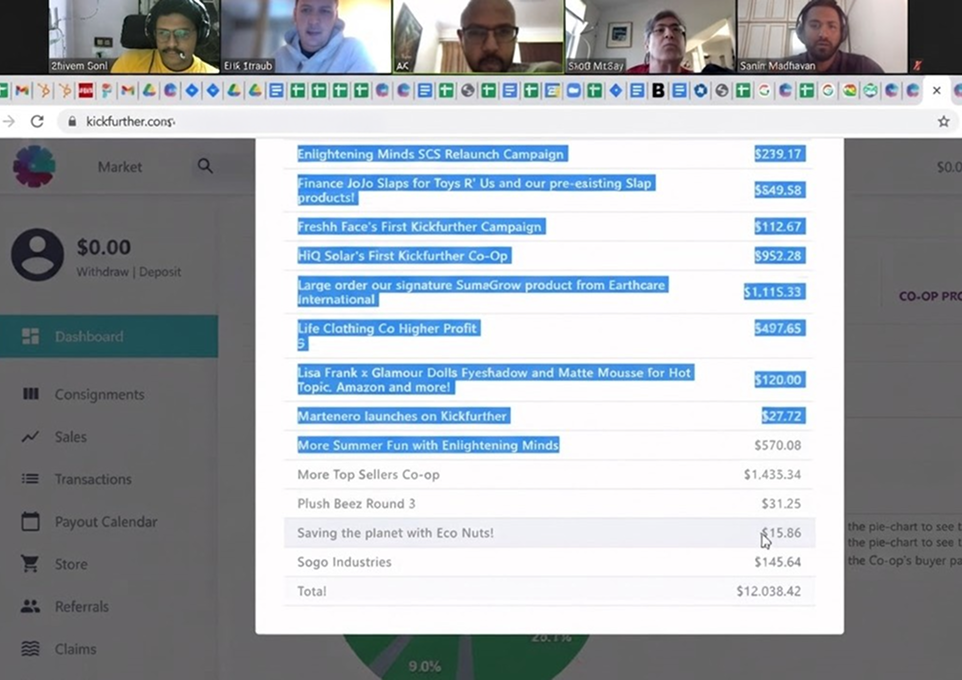
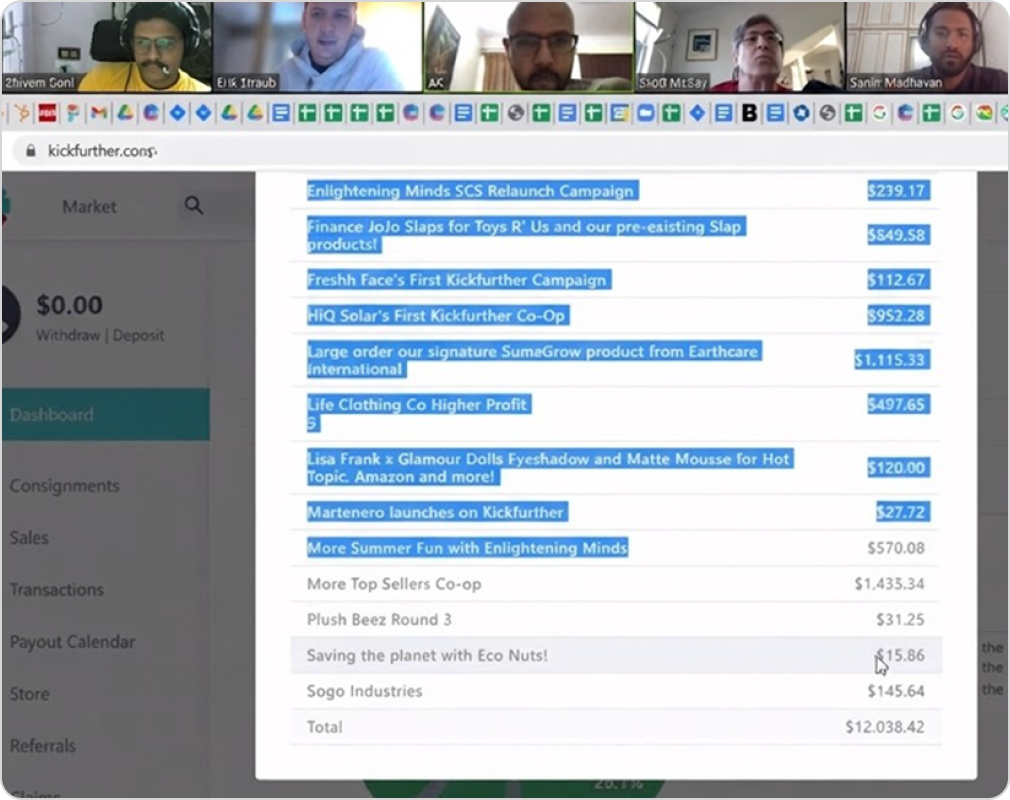
Kickfurther: revised Figma layout — fractional grid, framed images, investor gallery
- Layout: Main is now a 3-column grid (0.25fr / 1fr / 0.25fr), 32px gaps,
  capped at 1722px; content column is fluid (~1025px) with an empty right
  gutter. Sidebar column is fluid.
- Images: all content images now have a 1px Grey/300 border + 11px radius
  (reinstating the framed look, per the revised design).
- Delivery: add the new investor gallery (combined screens) below the
  investor view; business view is now text-only (image removed); hero swapped
  to the updated Buyer Marketplace mockup.
- Iterations: "happy path" is now a two-up (lifecycle + flagged/no-confidence).
- Type: eyebrow -> Grey/500 (Mono 16); sidebar labels -> 16px.

Images renamed to convention; unused business.png removed.

Claude-Session: https://claude.ai/code/session_016mGArwkk2tk7sdjNBRDyw8

diff --git a/kickfurther.html b/kickfurther.html
@@ -174,9 +174,14 @@
 
         <h3 class="kf-subhead">Start with the happy path</h3>
         <p class="body">You can&rsquo;t fix a process until you can see all of it in one place, and back then, no one could. So the first thing I did was draw it. I began with the deal&rsquo;s normal life: how a funding deal moves from start to finish when everything goes right. For the happy path, it came together cleanly. But the moment a deal went bad, the map went vague. The steps thinned out, the detail fell away, and it was clear no one had ever really charted what happened after things went wrong. That blank space on the map was the problem. The failure path was the part nobody owned.</p>
-        <figure class="asset-slot kf-scroll" data-caption="The deal&rsquo;s normal life — the happy path (scroll to explore)">
-          <img src="assets/img/kickfurther/happy-path.png" alt="Flowchart of a funding deal's normal lifecycle: funded, meeting commitments, satisfied, repeating until sold" />
-        </figure>
+        <div class="kf-duo">
+          <figure class="asset-slot kf-duo__item" data-caption="The deal&rsquo;s normal life — the happy path">
+            <img src="assets/img/kickfurther/happy-path-1.png" alt="Flowchart of a funding deal's normal lifecycle: funded, meeting commitments, satisfied, repeating until sold" />
+          </figure>
+          <figure class="asset-slot kf-duo__item" data-caption="Where it goes wrong — flagged &amp; no-confidence vote">
+            <img src="assets/img/kickfurther/happy-path-2.png" alt="Flowchart of what happens when a deal is flagged and goes to a no-confidence vote" />
+          </figure>
+        </div>
 
         <h3 class="kf-subhead">Go deeper into the cancellation flow</h3>
         <p class="body">So I went straight at that part: what actually happens when a deal falls out of good standing. I sat with the teams who touched it (product, operations, legal, and customer service) and asked each of them to walk me through it. What I got back were different walkthroughs. Every team described the process a little differently, and no two versions quite lined up.</p>
@@ -218,11 +223,11 @@
         <figure class="asset-slot diagram diagram--investor" data-caption="The investor&rsquo;s deal-detail flow across every state">
           <img src="assets/img/kickfurther/investor.png" alt="Investor deal-detail views with status indicators, a live no-confidence vote, settlement voting, and a financial summary" />
         </figure>
+        <figure class="asset-slot kf-gallery" data-caption="The investor&rsquo;s deal-detail states — settlement offers, no-confidence vote, and completion">
+          <img src="assets/img/kickfurther/investor-gallery.png" alt="A gallery of the investor deal-detail screens across settlement, cancellation, flagged voting, and completed states" />
+        </figure>
 
         <h3 class="kf-subhead">For the business: the same status, made actionable</h3>
-        <figure class="asset-slot diagram diagram--business" data-caption="Business deal-detail view with settlement options">
-          <img src="assets/img/kickfurther/business.png" alt="Business deal-detail view showing the same status indicators paired with clear next-step actions" />
-        </figure>
         <p class="body">The business sees the same three indicators, but paired with alert banners that each carry one clear action: submit the pending sales report, clear the overdue payment, post an update. Below them, a plain-language explanation of why you&rsquo;re flagged, what it means, and the exact steps back to good standing. Why: the business didn&rsquo;t need sympathy, it needed to know what to fix, and that answer now lives in the dashboard instead of a support call.</p>
 
         <h3 class="kf-subhead">For the team: the workflow they never had</h3>

diff --git a/assets/css/styles.css b/assets/css/styles.css
@@ -198,7 +198,8 @@ a { color: inherit; text-decoration: none; }
 .sidebar__back {
   display: inline-block;
   font-family: var(--font-mono);
-  font-size: 13px;
+  font-size: 16px;
+  line-height: 22.5px;
   text-transform: uppercase;
   letter-spacing: .06em;
   color: var(--grey-500);
@@ -210,7 +211,8 @@ a { color: inherit; text-decoration: none; }
 .section-nav { display: flex; flex-direction: column; gap: 12px; }
 .section-nav__link {
   font-family: var(--font-mono);
-  font-size: 13px;
+  font-size: 16px;
+  line-height: 22.5px;
   text-transform: uppercase;
   letter-spacing: .04em;
   color: var(--grey-400);
@@ -870,7 +872,7 @@ body.kf {
 }
 
 /* ---- Type tuning for the serif/sans pairing ---- */
-.kf .eyebrow { font-size: 16px; line-height: 22.5px; color: var(--grey-600); }  /* Figma "Mono 16" */
+.kf .eyebrow { font-size: 16px; line-height: 22.5px; color: var(--grey-500); }  /* Figma "Mono 16", Grey/500 */
 
 .kf .hero__title {
   font-weight: 400;
@@ -1119,8 +1121,8 @@ body.kf {
   -webkit-overflow-scrolling: touch;
 }
 .kf .kf-scroll:has(img) {
-  border: 1px solid var(--grey-200);
-  border-radius: 10px;
+  border: 1px solid var(--grey-300);   /* Figma image frame */
+  border-radius: 11px;
   background: var(--grey-40);
 }
 .kf .kf-scroll img {
@@ -1144,6 +1146,41 @@ body.kf {
   .kf .kf-duo { flex-direction: column; }
   .kf .kf-scroll img { height: 260px; }
 }
+
+/* ---------------------------------------------------------------------
+   Kickfurther revised layout (Figma) — fractional 3-column grid,
+   framed images, investor gallery. Max page width 1722px.
+   --------------------------------------------------------------------- */
+
+/* Main is now a 3-col grid: sidebar 0.25fr | content 1fr | empty 0.25fr */
+.kf .layout {
+  max-width: 1722px;
+  display: grid;
+  grid-template-columns: 0.25fr 1fr 0.25fr;
+  gap: 32px;
+  align-items: start;
+}
+.kf .sidebar { width: auto; }        /* fills col 1 (fluid) */
+.kf .content { max-width: none; }    /* fills col 2 (fluid) */
+
+@media (max-width: 900px) {
+  .kf .layout { grid-template-columns: 1fr; gap: 0; }   /* stack on tablet/mobile */
+}
+
+/* Framed images — 1px Grey/300 border + 11px radius (Figma) */
+.kf .asset-slot:has(img) {
+  border: 1px solid var(--grey-300);
+  border-radius: 11px;
+  overflow: hidden;
+  background: transparent;
+  aspect-ratio: auto;
+}
+/* wide scroll maps keep their frame but stay horizontally scrollable */
+.kf .kf-scroll:has(img) { overflow-x: auto; overflow-y: hidden; }
+
+/* Investor gallery (single combined image) */
+.kf .kf-gallery { margin: 8px 0 32px; }
+.kf .asset-slot.is-missing.kf-gallery::after { min-height: 480px; }
 
 
 /* =====================================================================
